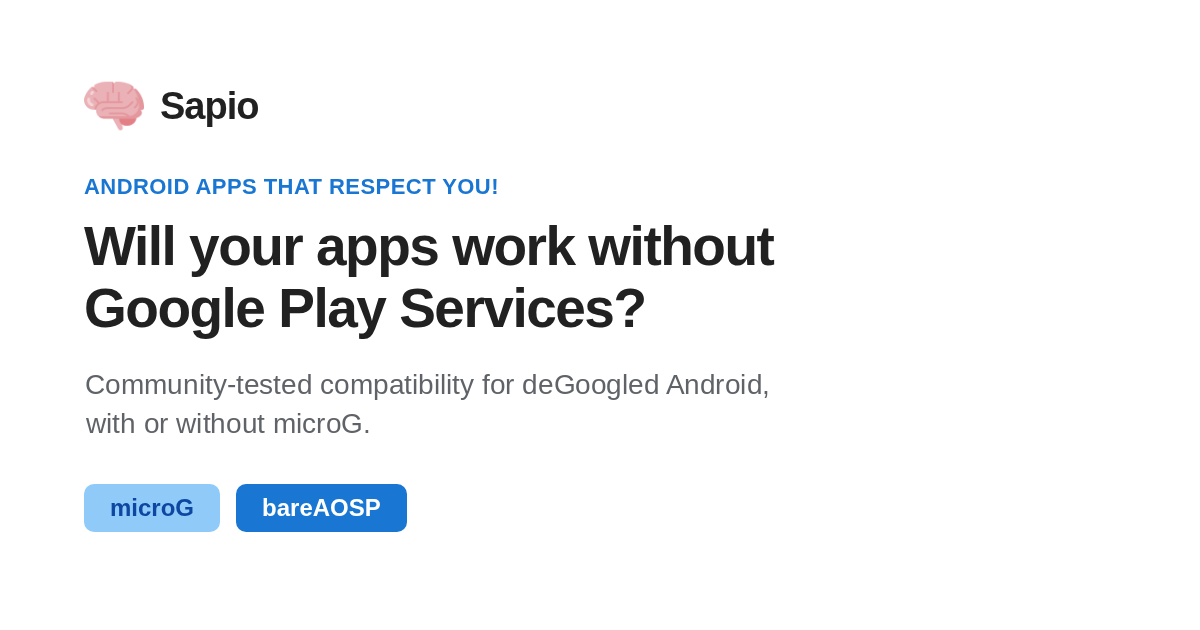
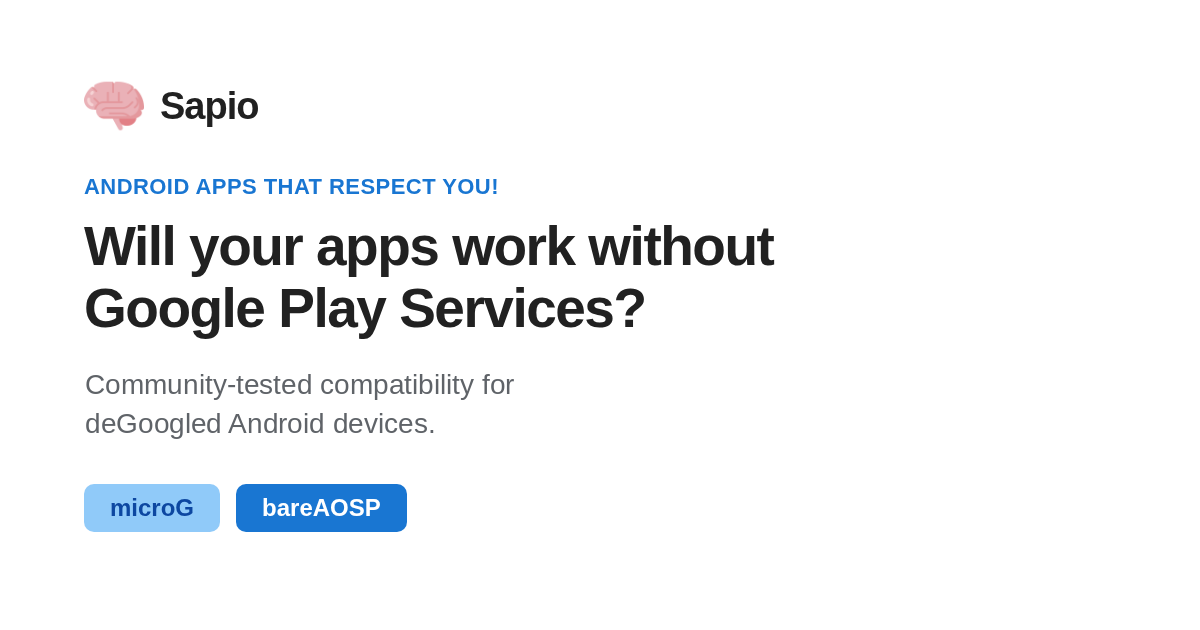
fix(website): drop microG from the hero subtitle

Changed region(s): [[0.0617, 0.6635, 0.37, 0.6937], [0.4317, 0.6032, 0.6475, 0.6333]]

diff --git a/website/i18n.js b/website/i18n.js
@@ -9,7 +9,7 @@ const TRANSLATIONS = {
     // ─── Hero ─────────────────────────────────────────────────────────────────
     hero_eyebrow:     { en: 'Android apps that respect you!', fr: 'Des applications Android qui vous respectent !', de: 'Android-Apps, die dich respektieren!', it: 'App Android che ti rispettano!', es: '¡Apps de Android que te respetan!' },
     hero_title:       { en: 'Will your apps work without Google Play Services?', fr: 'Est-ce que vos apps fonctionnent sans Google Play Services ?', de: 'Funktionieren deine Apps ohne Google Play Services?', it: 'Le tue app funzionano senza Google Play Services?', es: '¿Funcionan tus apps sin Google Play Services?' },
-    hero_subtitle:    { en: 'Community-tested compatibility for deGoogled Android, with or without microG.', fr: 'Compatibilité testée par la communauté pour Android dégooglisé, avec ou sans microG.', de: 'Von der Community getestete Kompatibilität für entgoogeltes Android, mit oder ohne microG.', it: 'Compatibilità testata dalla community per Android deGooglizzato, con o senza microG.', es: 'Compatibilidad probada por la comunidad para Android desgooglizado, con o sin microG.' },
+    hero_subtitle:    { en: 'Community-tested compatibility for deGoogled Android devices.', fr: 'Compatibilité testée par la communauté pour les appareils Android dégooglisés.', de: 'Von der Community getestete Kompatibilität für entgoogelte Android-Geräte.', it: 'Compatibilità testata dalla community per dispositivi Android deGooglizzati.', es: 'Compatibilidad probada por la comunidad para dispositivos Android desgooglizados.' },
     search_placeholder: { en: 'Search an app, e.g. Netflix or com.netflix.mediaclient', fr: 'Rechercher une application, ex. Netflix ou com.netflix.mediaclient', de: 'App suchen, z. B. Netflix oder com.netflix.mediaclient', it: 'Cerca un\'app, es. Netflix o com.netflix.mediaclient', es: 'Busca una app, p. ej. Netflix o com.netflix.mediaclient' },
     examples_try:     { en: 'Try', fr: 'Essayez', de: 'Probiere', it: 'Prova', es: 'Prueba' },
     stat_apps:        { en: 'apps', fr: 'applications', de: 'Apps', it: 'app', es: 'apps' },

diff --git a/website/index.html b/website/index.html
@@ -62,7 +62,7 @@
             <div class="container hero-inner">
                 <span class="hero-eyebrow" data-i18n="hero_eyebrow">Android apps that respect you!</span>
                 <h1 class="hero-title" data-i18n="hero_title">Will your apps work without Google Play Services?</h1>
-                <p class="hero-subtitle" data-i18n="hero_subtitle">Community-tested compatibility for deGoogled Android, with or without microG.</p>
+                <p class="hero-subtitle" data-i18n="hero_subtitle">Community-tested compatibility for deGoogled Android devices.</p>
 
                 <div class="search-bar">
                     <svg class="search-icon" width="20" height="20" viewBox="0 0 24 24" fill="none" stroke="currentColor" stroke-width="2"><circle cx="11" cy="11" r="8"/><path d="m21 21-4.35-4.35"/></svg>
